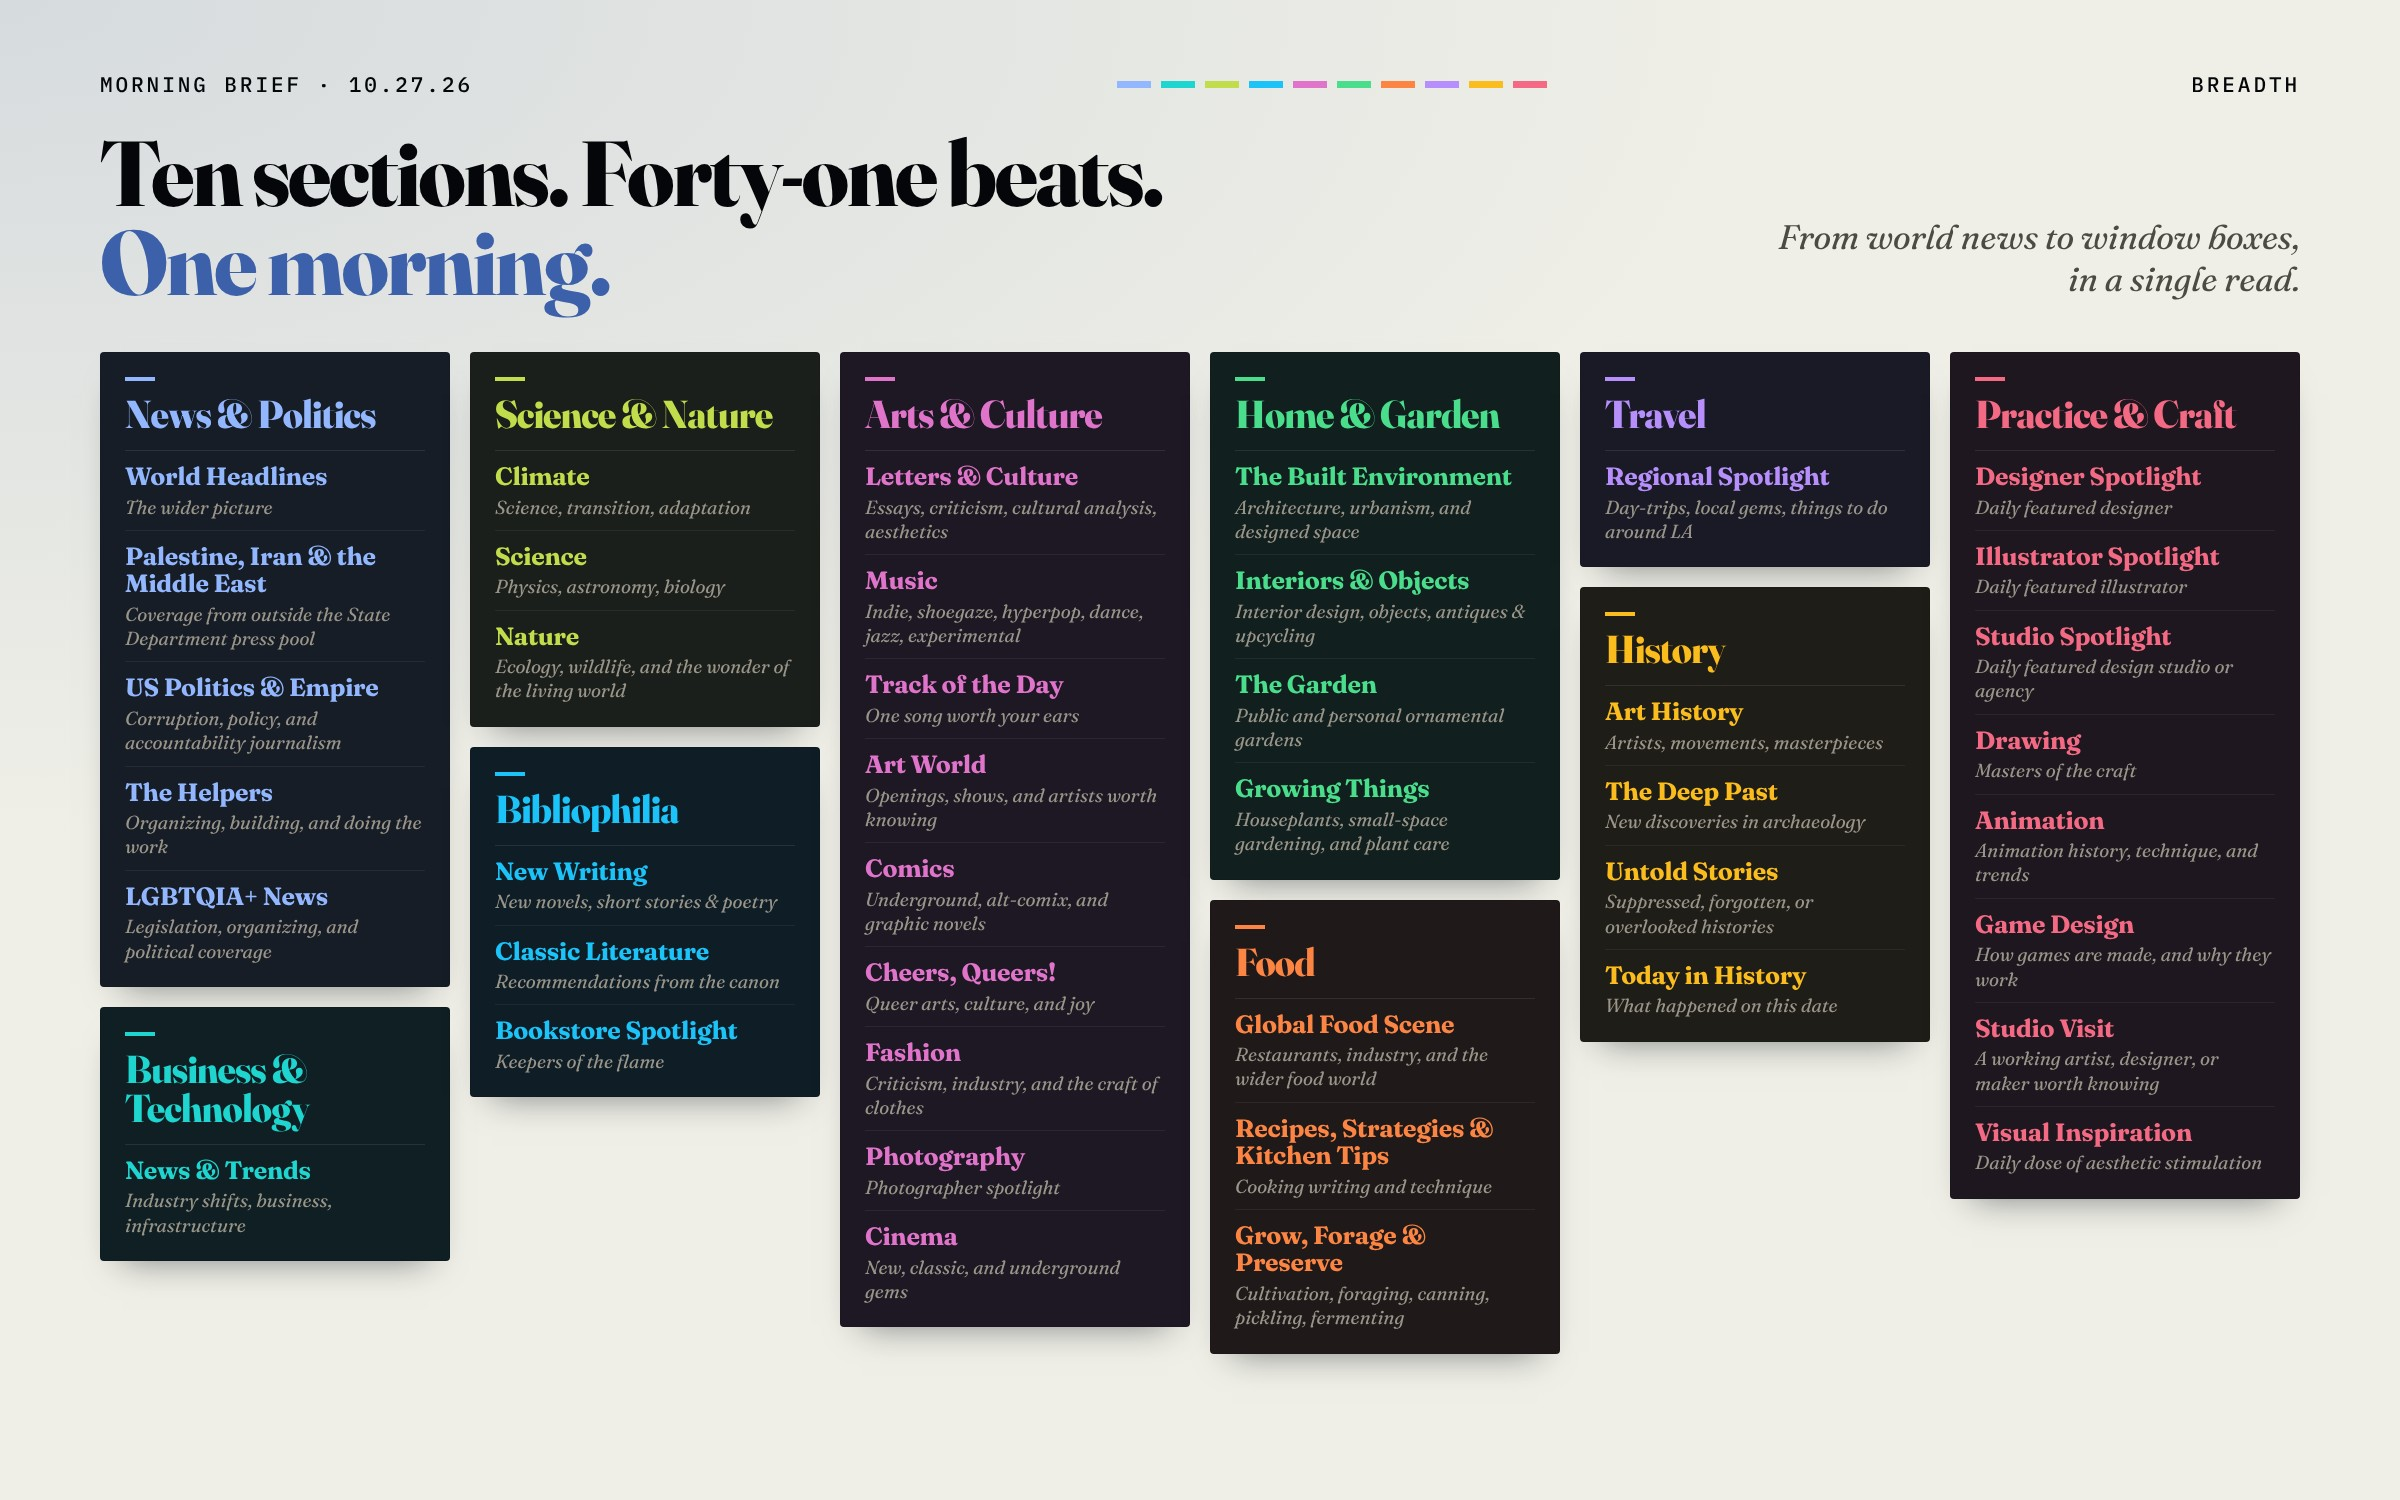
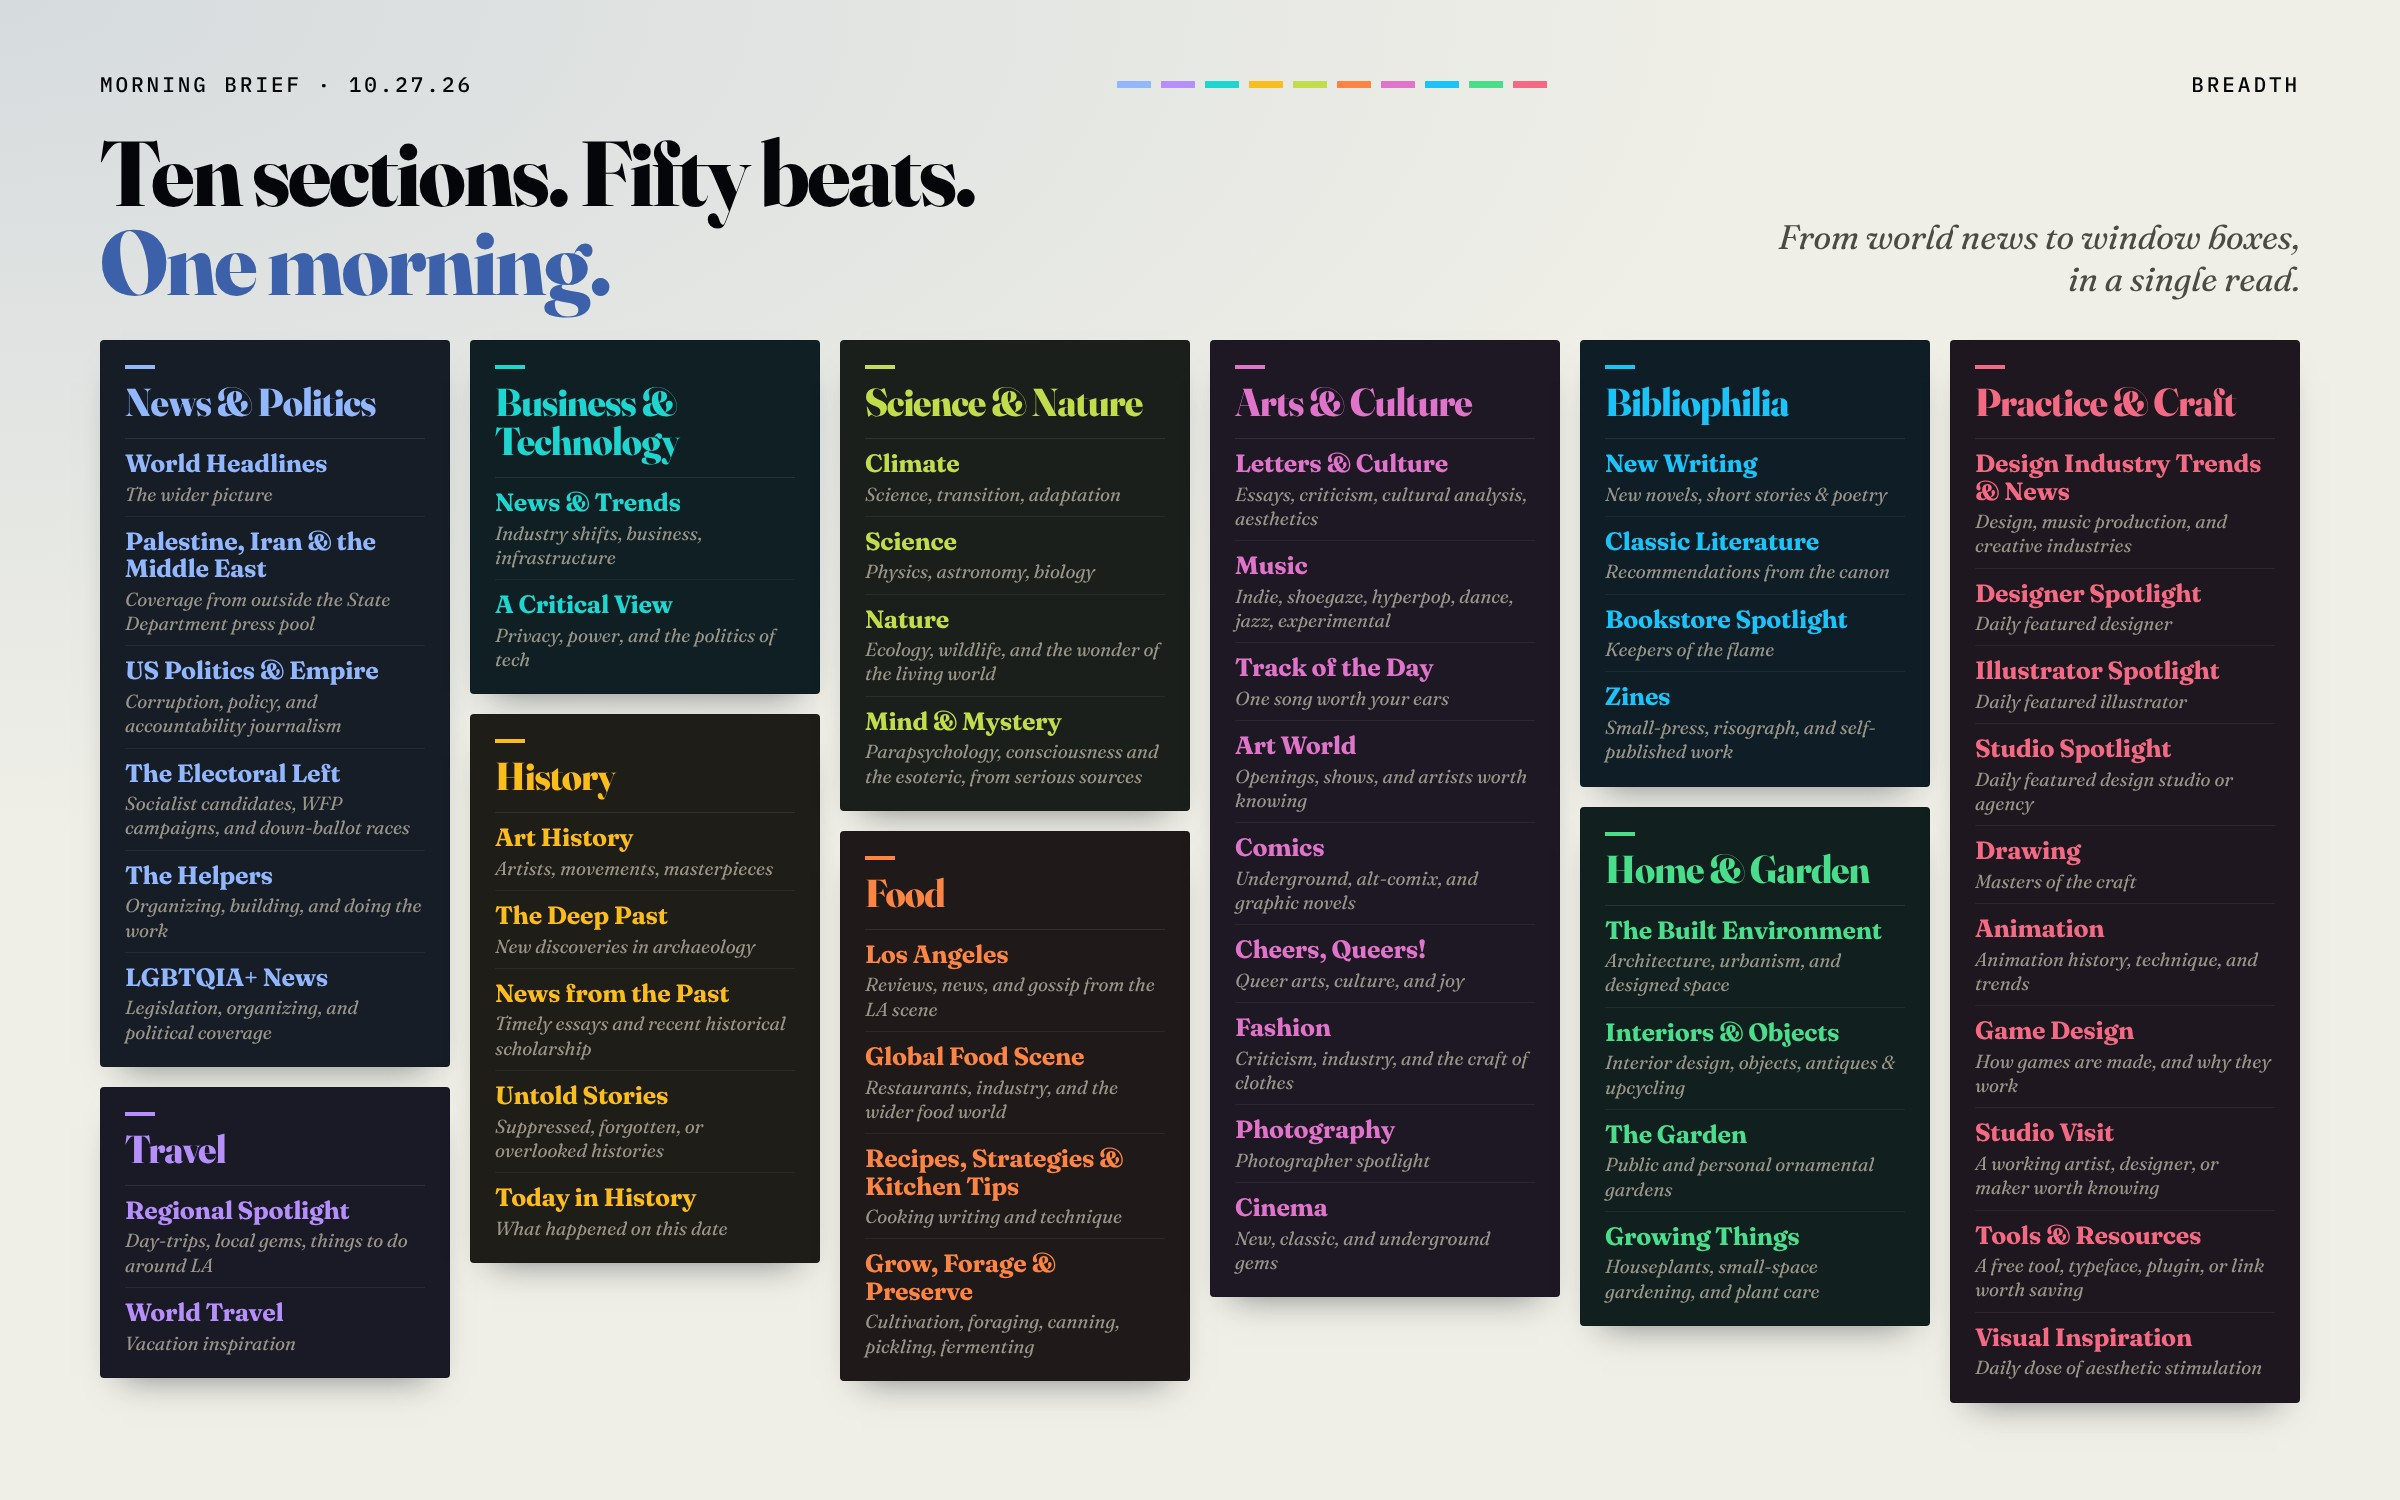
Morning Brief: full 50-subsection index, current source counts
The breadth slide was built from one issue's subsections (41), so ones
that didn't run on Oct 27 were missing (World Travel, The Electoral
Left, A Critical View, Mind & Mystery, Zines, Los Angeles, News from
the Past, Design Industry Trends & News, Tools & Resources). It now
lists all 50 from the newsletter's feeds.py SECTIONS with their
taglines: "Ten sections. Fifty beats."

Counts brought up to date (603 unique feeds, 50 subsections) as
"600+ sources" / "50 subsections" in the case-study copy, item
description, Approach card and system-diagram slide.

Claude-Session: https://claude.ai/code/session_019TcL84FHun6vBx7xrkQDcn

Changed region(s): [[0.0312, 0.2147, 0.9688, 0.9507], [0.25, 0.092, 0.5, 0.1533], [0.5, 0.0307, 0.625, 0.0613]]

diff --git a/content/projects/morning-brief.ts b/content/projects/morning-brief.ts
@@ -12,13 +12,13 @@ export const morningBrief: Project = {
       number: "09",
       slug: "morning-brief",
       description:
-        "Design and build of a daily newsletter of my own: 598 sources, 49 sections, and an AI curation layer with a written editorial voice.",
+        "Design and build of a daily newsletter of my own: 600+ sources, 50 subsections, and an AI curation layer with a written editorial voice.",
       caseStudy: {
         title: "Morning Brief\nEditorial System\nDesign & Build",
         brief:
-          "I wanted one morning read covering everything I actually care about—design, art, comics, music, film, books, Los Angeles, labor and politics—without the algorithm, the hype cycle, or the press-release churn. Nothing like it existed, so I built it.\n\nMorning Brief pulls from 598 hand-picked sources across 49 sections, runs them through an AI curation layer, and lands in my inbox as a designed HTML email every morning.",
+          "I wanted one morning read covering everything I actually care about—design, art, comics, music, film, books, Los Angeles, labor and politics—without the algorithm, the hype cycle, or the press-release churn. Nothing like it existed, so I built it.\n\nMorning Brief pulls from 600+ hand-picked sources across 50 subsections, runs them through an AI curation layer, and lands in my inbox as a designed HTML email every morning.",
         challenge:
-          "At that scale, curation is an information-architecture problem before it's a design problem. Forty-nine sections have to be scannable over a cup of coffee, and the biggest one, Practice & Craft, carries ten subsections on its own.\n\nThe harder part was taste. Left alone, an AI filter drifts to the middle of the road. To get a feed that sounds like me, the editorial point of view had to be written down: what to include, what to rule out, and how to say it. And then there's email, where every client renders HTML a little differently.",
+          "At that scale, curation is an information-architecture problem before it's a design problem. Fifty subsections across ten sections have to be scannable over a cup of coffee, and the biggest section, Practice & Craft, carries ten of them on its own.\n\nThe harder part was taste. Left alone, an AI filter drifts to the middle of the road. To get a feed that sounds like me, the editorial point of view had to be written down: what to include, what to rule out, and how to say it. And then there's email, where every client renders HTML a little differently.",
         solution: [
           "I wrote the editorial voice like a creative brief: direct, substantive, unfussy, active voice, name things plainly. The exclusions are as specific as the inclusions—no celebrity coverage, no drop culture, no franchise IP. Patterns in what I love became reusable rules, like “rigorous wonder”: cross-disciplinary writing that earns its awe by showing the mechanism.",
           "Under the hood it's Python, the Claude API, RSS parsing, and scheduled GitHub Actions, with state tracking so nothing repeats from day to day—all feeding a templated email I designed and maintain in production.",
@@ -85,7 +85,7 @@ export const morningBrief: Project = {
           {
             kind: "image",
             src: "/case-study/morning-brief/breadth-spread.jpg",
-            alt: "Morning Brief — ten sections and their 41 subsections, each with its tagline",
+            alt: "Morning Brief — ten sections and all 50 subsections, each with its tagline",
           },
           {
             kind: "video",
@@ -111,7 +111,7 @@ export const morningBrief: Project = {
           {
             kind: "image",
             src: "/case-study/morning-brief/system-diagram.jpg",
-            alt: "Morning Brief system — 598 sources in, one email out",
+            alt: "Morning Brief system — 600+ sources in, one email out",
           },
         ],
       },

diff --git a/app/approach/page.tsx b/app/approach/page.tsx
@@ -61,7 +61,7 @@ const PROJECTS: {
   {
     meta: "Self-initiated · Daily newsletter",
     title: "Morning Brief",
-    body: "A daily newsletter I designed, built, and run. It pulls from 598 curated sources across 49 sections, sorted by an AI curation layer that follows an editorial perspective I wrote myself. It arrives as an HTML email built to hold up across mail clients. Under the hood: Python, the Claude API, RSS parsing, and GitHub Actions.",
+    body: "A daily newsletter I designed, built, and run. It pulls from 600+ curated sources across 50 subsections, sorted by an AI curation layer that follows an editorial perspective I wrote myself. It arrives as an HTML email built to hold up across mail clients. Under the hood: Python, the Claude API, RSS parsing, and GitHub Actions.",
     link: { href: "/#morning-brief", label: "[ View case study ]" },
   },
   {
